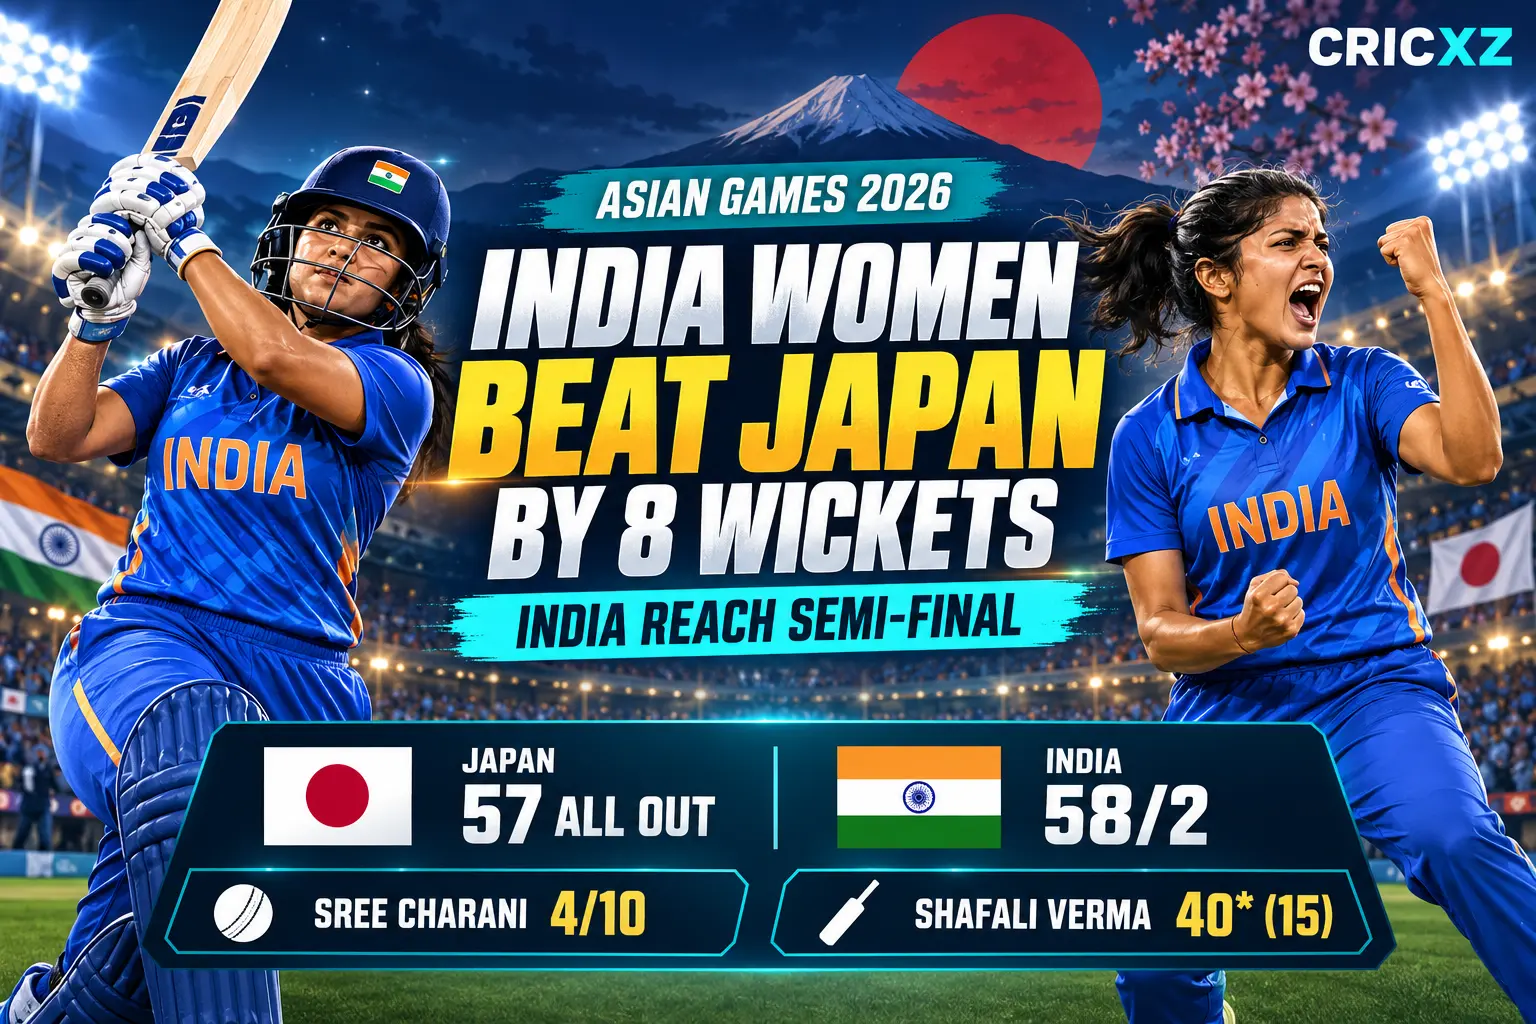
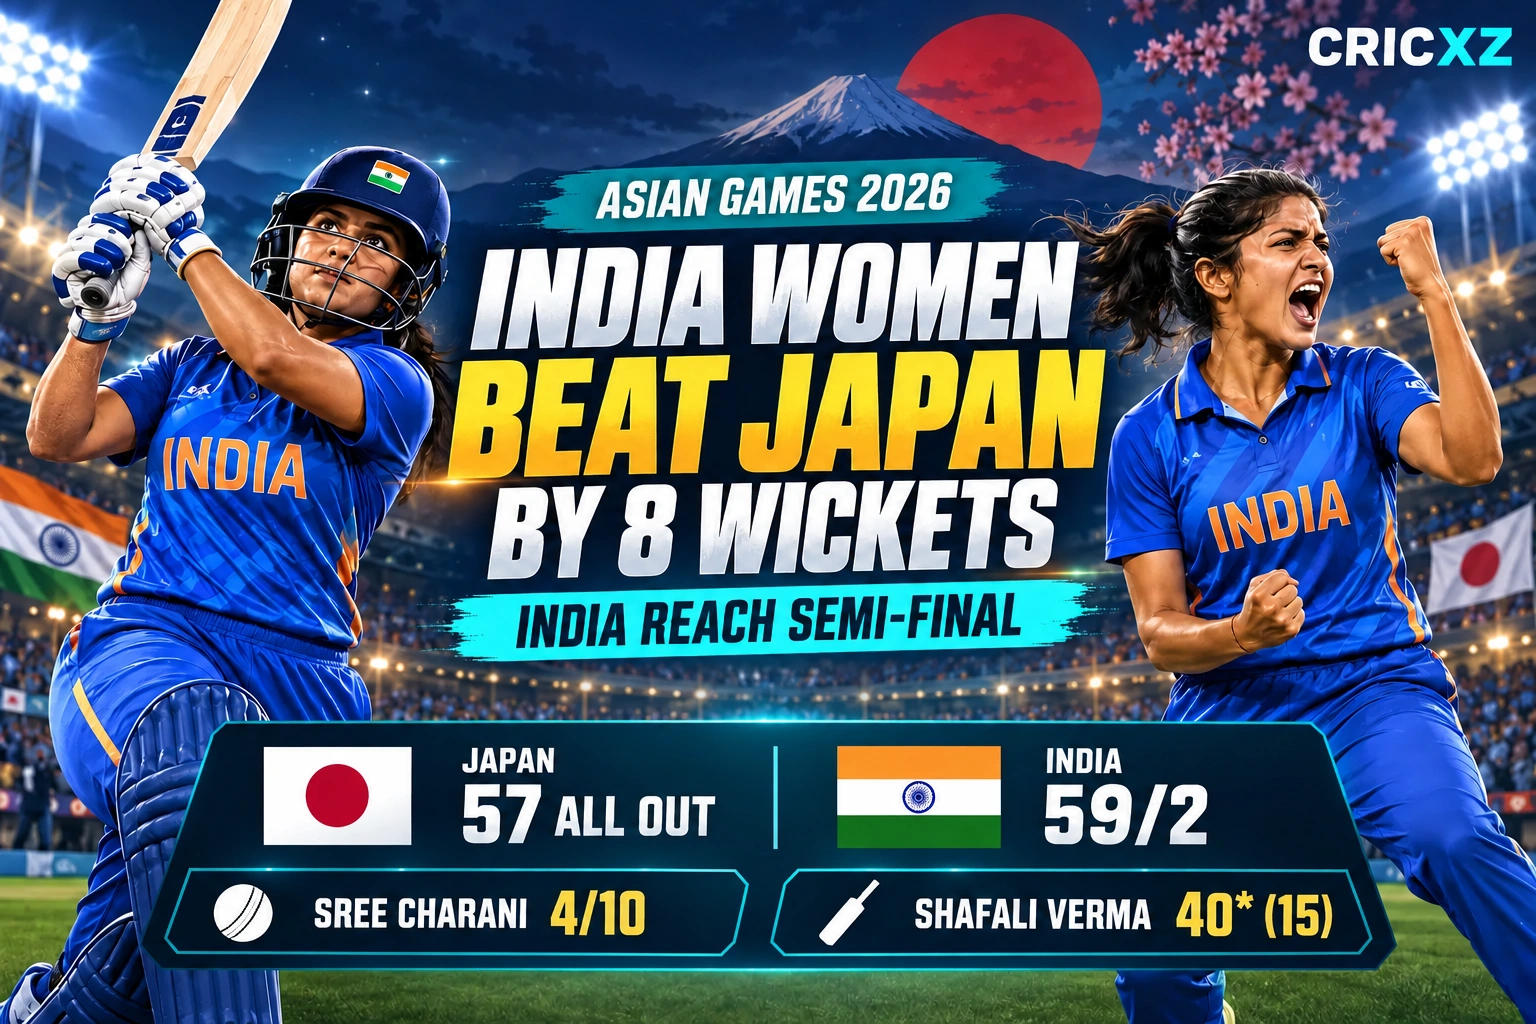
Correct Japan Women score and hero; fix preview separators

diff --git a/articles/india-women-beat-japan-asian-games-2026-semifinal.html b/articles/india-women-beat-japan-asian-games-2026-semifinal.html
@@ -9,11 +9,11 @@
     <link rel="apple-touch-icon" sizes="180x180" href="/assets/images/apple-touch-icon.png">
   <script async src="https://pagead2.googlesyndication.com/pagead/js/adsbygoogle.js?client=ca-pub-4846563918248244" crossorigin="anonymous"></script>
   <title>India Women Beat Japan, Reach Asian Games 2026 Semi-final | CricXZ</title>
-  <meta name="description" content="India Women bowled Japan out for 57 and chased the target inside five overs as Sree Charani took 4/10 and Shafali Verma struck an unbeaten 40.">
+  <meta name="description" content="India Women bowled Japan out for 57 and chased the target in five overs as Sree Charani took 4/10 and Shafali Verma struck an unbeaten 40.">
   <meta name="author" content="CricXZ Sports Desk">
   <meta name="robots" content="index, follow">
   <meta property="og:title" content="India Women Beat Japan, Reach Asian Games 2026 Semi-final | CricXZ">
-  <meta property="og:description" content="India Women bowled Japan out for 57 and chased the target inside five overs as Sree Charani took 4/10 and Shafali Verma struck an unbeaten 40.">
+  <meta property="og:description" content="India Women bowled Japan out for 57 and chased the target in five overs as Sree Charani took 4/10 and Shafali Verma struck an unbeaten 40.">
   <meta property="og:type" content="article">
   <meta property="og:url" content="https://cricxz.com/articles/india-women-beat-japan-asian-games-2026-semifinal.html">
   <meta property="og:image" content="https://cricxz.com/assets/images/articles/india-women-beat-japan-asian-games-2026-semifinal-cricxz.webp">
@@ -28,7 +28,7 @@
   "@context": "https://schema.org",
   "@type": "NewsArticle",
   "headline": "India Women Beat Japan by 8 Wickets to Reach Asian Games 2026 Semi-final",
-  "description": "India Women bowled Japan out for 57 and chased the target inside five overs as Sree Charani took 4/10 and Shafali Verma struck an unbeaten 40.",
+  "description": "India Women bowled Japan out for 57 and chased the target in five overs as Sree Charani took 4/10 and Shafali Verma struck an unbeaten 40.",
   "image": {
     "@type": "ImageObject",
     "url": "https://cricxz.com/assets/images/articles/india-women-beat-japan-asian-games-2026-semifinal-cricxz.webp",
@@ -99,11 +99,11 @@
              H2. Use lists/tables only when useful; do not force one outline. -->
         <p>India Women advanced to the Asian Games 2026 cricket semi-finals with an eight-wicket victory over hosts Japan in Nisshin on 18 September.</p>
 
-<p>India dismissed Japan for 57 before completing the chase inside five overs. Sree Charani led the bowling effort with four wickets, while Shafali Verma finished unbeaten on 40 from 15 balls.</p>
+<p>India dismissed Japan for 57 before completing the chase in five overs. Sree Charani led the bowling effort with four wickets, while Shafali Verma finished unbeaten on 40 from 15 balls.</p>
 
 <h2>India Women vs Japan score summary</h2>
 <p><strong>Japan Women:</strong> 57 all out</p>
-<p><strong>India Women:</strong> 58/2 in under five overs</p>
+<p><strong>India Women:</strong> 59/2 in 5 overs</p>
 <p><strong>Result:</strong> India Women won by eight wickets</p>
 <p><strong>Venue:</strong> Nisshin, Japan</p>
 <p><strong>Date:</strong> 18 September 2026</p>
@@ -121,7 +121,7 @@
 <h2>Shafali Verma completes the chase</h2>
 <p>India lost G Kamalini for a two-ball duck, but Shafali immediately removed any pressure from the chase. She struck six fours and two sixes in her unbeaten 40 from only 15 deliveries.</p>
 
-<p>Her attacking innings carried India past the target inside five overs and completed an influential all-round performance after her two wickets with the ball.</p>
+<p>Her attacking innings carried India past the target in five overs and completed an influential all-round performance after her two wickets with the ball.</p>
 
 <h2>India to face Bangladesh in the semi-final</h2>
 <p>The victory secured India's place in the Asian Games semi-finals, where they are scheduled to meet Bangladesh on 20 September.</p>
@@ -129,7 +129,8 @@
 <p>India enter the knockout stage with recent success behind them after winning the <a href="india-women-win-asia-cup-2026-title.html">Women's Asia Cup 2026 title</a>. Shafali's match-winning contribution in Nisshin also continued the strong form documented in her <a href="../pages/shafali-verma.html">CricXZ player profile</a>.</p>
 
 <p>Sri Lanka also progressed to the semi-finals and will face Pakistan in the other last-four match.</p>
-        <p><em>Match details checked through 18 September 2026 after India's group-stage victory in Nisshin.</em></p>
+        <p><strong>Correction, 19 November 2026:</strong> India finished on 59/2 in 5 overs while chasing a target of 58. This match was a quarter-final.</p>
+        <p><em>Match details checked through 18 September 2026 after India's quarter-final victory in Nisshin.</em></p>
         <section class="article-sources" aria-labelledby="article-sources-heading">
           <h2 id="article-sources-heading">Sources</h2>
           <!-- Prefer official governing body/board/tournament, then official
@@ -137,7 +138,9 @@
                Use descriptive wording; never copy source paragraphs. -->
           <ul>            <li>
               <a href="https://www.icc-cricket.com/news/sri-lanka-and-india-advance-to-asian-games-semi-finals" rel="noopener noreferrer">ICC — Sri Lanka and India advance to Asian Games semi-finals</a>
-            </li></ul>
+            </li>
+            <li><a href="https://sports.ndtv.com/cricket/jpn-w-vs-ind-w-scorecard-live-cricket-score-asian-games-women-s-cricket-competition-2026-4th-quarter-final-jpwinw09182026274125" rel="noopener noreferrer">NDTV — Japan Women vs India Women full scorecard</a></li>
+            <li><a href="https://www.bcci.tv/photos/japan-women-vs-india-women-2026-asian-games-quarter-final" rel="noopener noreferrer">BCCI — Asian Games quarter-final match gallery</a></li></ul>
         </section>
       </article>
     </div>

diff --git a/articles/india-women-vs-bangladesh-asia-cup-2026-semifinal-preview.html b/articles/india-women-vs-bangladesh-asia-cup-2026-semifinal-preview.html
@@ -20,7 +20,7 @@
   <meta property="og:image:alt" content="CricXZ editorial graphic for India Women vs Bangladesh Women in the Women&#x27;s Asia Cup 2026 semi-final">
   <meta property="og:site_name" content="CricXZ">
   <meta property="article:published_time" content="2026-09-10T13:15:00+05:30">
-    <meta property="article:section" content="Women&#x27;s Asia Cup 2026 ? Semi-final">
+    <meta property="article:section" content="Women&#x27;s Asia Cup 2026 • Semi-final">
   <link rel="canonical" href="https://cricxz.com/articles/india-women-vs-bangladesh-asia-cup-2026-semifinal-preview.html">
   <link rel="stylesheet" href="../assets/css/style.css">
   <script type="application/ld+json">
@@ -72,7 +72,7 @@
 <main>
   <header class="article-hero">
     <div class="article-container">
-      <span class="article-category">Women's Asia Cup 2026 ? Semi-final</span>
+      <span class="article-category">Women's Asia Cup 2026 • Semi-final</span>
       <h1>India Women vs Bangladesh Women Asia Cup 2026 Semi-final: Match Preview and Key Players</h1>
       <p class="article-intro">Unbeaten India face Bangladesh in the first Women's Asia Cup 2026 semi-final in Dubai, with a place in the 13 September final at stake.</p>
       <div class="article-meta">
@@ -164,19 +164,19 @@
                team/player, then reliable secondary sources where needed.
                Use descriptive wording; never copy source paragraphs. -->
           <ul>            <li>
-              <a href="https://www.icc-cricket.com/news/bangladesh-set-up-semi-final-against-india-at-asia-cup" rel="noopener noreferrer">ICC ? Bangladesh set up semi-final against India at Asia Cup</a>
+              <a href="https://www.icc-cricket.com/news/bangladesh-set-up-semi-final-against-india-at-asia-cup" rel="noopener noreferrer">ICC — Bangladesh set up semi-final against India at Asia Cup</a>
             </li>
             <li>
-              <a href="https://www.icc-cricket.com/news/all-the-squads-at-the-women-s-asia-cup-2026" rel="noopener noreferrer">ICC ? All the squads at the Women's Asia Cup 2026</a>
+              <a href="https://www.icc-cricket.com/news/all-the-squads-at-the-women-s-asia-cup-2026" rel="noopener noreferrer">ICC — All the squads at the Women's Asia Cup 2026</a>
             </li>
             <li>
-              <a href="https://www.icc-cricket.com/media-releases/verma-and-yadav-steer-india-past-bangladesh" rel="noopener noreferrer">ICC ? Verma and Yadav steer India past Bangladesh</a>
+              <a href="https://www.icc-cricket.com/media-releases/verma-and-yadav-steer-india-past-bangladesh" rel="noopener noreferrer">ICC — Verma and Yadav steer India past Bangladesh</a>
             </li>
             <li>
-              <a href="https://www.icc-cricket.com/news/clinical-india-defeat-pakistan-to-stay-unbeaten-in-asia-cup" rel="noopener noreferrer">ICC ? Clinical India defeat Pakistan to stay unbeaten in Asia Cup</a>
+              <a href="https://www.icc-cricket.com/news/clinical-india-defeat-pakistan-to-stay-unbeaten-in-asia-cup" rel="noopener noreferrer">ICC — Clinical India defeat Pakistan to stay unbeaten in Asia Cup</a>
             </li>
             <li>
-              <a href="https://www.icc-cricket.com/news/mandhana-surpasses-historic-milestones-in-asia-cup" rel="noopener noreferrer">ICC ? Mandhana surpasses historic milestones in Asia Cup</a>
+              <a href="https://www.icc-cricket.com/news/mandhana-surpasses-historic-milestones-in-asia-cup" rel="noopener noreferrer">ICC — Mandhana surpasses historic milestones in Asia Cup</a>
             </li></ul>
         </section>
       </article>
